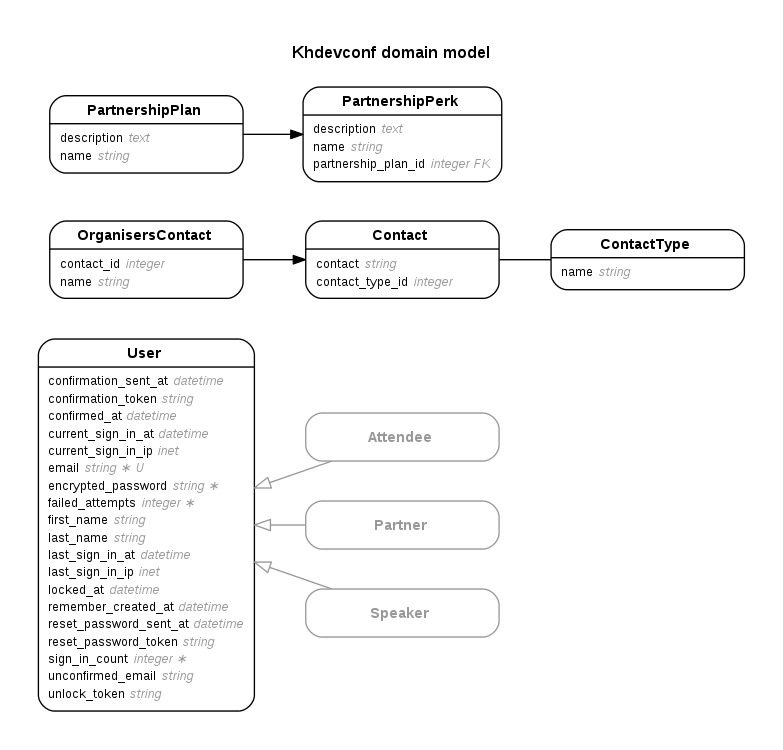
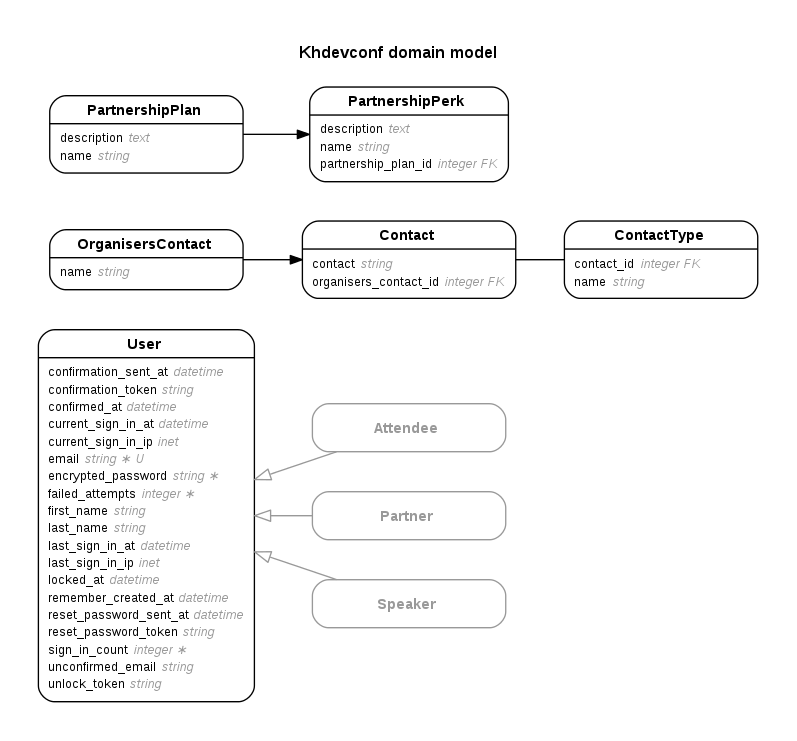
Create contacts relations and regenerate db diagrams

diff --git a/db/schema.rb b/db/schema.rb
@@ -11,7 +11,7 @@
 #
 # It's strongly recommended that you check this file into your version control system.
 
-ActiveRecord::Schema.define(version: 20151119063540) do
+ActiveRecord::Schema.define(version: 20151119064657) do
 
   # These are extensions that must be enabled in order to support this database
   enable_extension "plpgsql"
@@ -26,27 +26,27 @@ ActiveRecord::Schema.define(version: 20151119063540) do
 
   create_table "contact_types", force: :cascade do |t|
     t.string   "name"
+    t.integer  "contact_id"
     t.datetime "created_at", null: false
     t.datetime "updated_at", null: false
   end
 
+  add_index "contact_types", ["contact_id"], name: "index_contact_types_on_contact_id", using: :btree
+
   create_table "contacts", force: :cascade do |t|
     t.string   "contact"
-    t.datetime "created_at",      null: false
-    t.datetime "updated_at",      null: false
-    t.integer  "contact_type_id"
+    t.integer  "organisers_contact_id"
+    t.datetime "created_at",            null: false
+    t.datetime "updated_at",            null: false
   end
 
-  add_index "contacts", ["contact_type_id"], name: "index_contacts_on_contact_type_id", using: :btree
+  add_index "contacts", ["organisers_contact_id"], name: "index_contacts_on_organisers_contact_id", using: :btree
 
   create_table "organisers_contacts", force: :cascade do |t|
     t.string   "name"
     t.datetime "created_at", null: false
     t.datetime "updated_at", null: false
-    t.integer  "contact_id"
   end
-
-  add_index "organisers_contacts", ["contact_id"], name: "index_organisers_contacts_on_contact_id", using: :btree
 
   create_table "partners", force: :cascade do |t|
     t.string   "company_name"
@@ -107,7 +107,7 @@ ActiveRecord::Schema.define(version: 20151119063540) do
   add_index "users", ["email"], name: "index_users_on_email", unique: true, using: :btree
   add_index "users", ["reset_password_token"], name: "index_users_on_reset_password_token", unique: true, using: :btree
 
-  add_foreign_key "contacts", "contact_types"
-  add_foreign_key "organisers_contacts", "contacts"
+  add_foreign_key "contact_types", "contacts"
+  add_foreign_key "contacts", "organisers_contacts"
   add_foreign_key "partnership_perks", "partnership_plans"
 end

diff --git a/db/migrate/20151119064631_create_contacts.rb b/db/migrate/20151119064631_create_contacts.rb
@@ -2,7 +2,7 @@ class CreateContacts < ActiveRecord::Migration
   def change
     create_table :contacts do |t|
       t.string :contact
-      # t.references :contact_types, index: true, foreign_key: true
+      t.references :organisers_contact, index: true, foreign_key: true
 
       t.timestamps null: false
     end

diff --git a/db/migrate/20151119064657_create_contact_types.rb b/db/migrate/20151119064657_create_contact_types.rb
@@ -2,6 +2,7 @@ class CreateContactTypes < ActiveRecord::Migration
   def change
     create_table :contact_types do |t|
       t.string :name
+      t.references :contact, index: true, foreign_key: true
 
       t.timestamps null: false
     end

diff --git a/db/migrate/20151119064555_create_organisers_contacts.rb b/db/migrate/20151119064555_create_organisers_contacts.rb
@@ -5,7 +5,5 @@ class CreateOrganisersContacts < ActiveRecord::Migration
 
       t.timestamps null: false
     end
-
-    add_reference :organisers_contacts, :contact, index: true, foreign_key: true
   end
 end

diff --git a/db/migrate/20151119064136_drop_organisers_contacts.rb b/db/migrate/20151119064136_drop_organisers_contacts.rb
@@ -1,0 +1,7 @@
+class DropOrganisersContacts < ActiveRecord::Migration
+  def change
+    drop_table :organisers_contacts
+    drop_table :contacts
+    drop_table :contact_types
+  end
+end

diff --git a/spec/factories/contacts.rb b/spec/factories/contacts.rb
@@ -1,7 +1,7 @@
 FactoryGirl.define do
   factory :contact do
     contact "MyString"
-contact_typs nil
+organisers_contact nil
   end
 
 end

diff --git a/app/models/contact.rb b/app/models/contact.rb
@@ -1,4 +1,4 @@
 class Contact < ActiveRecord::Base
-  has_one :contact_type
   belongs_to :organisers_contact
+  has_one :contact_type
 end

diff --git a/spec/factories/organisers_contacts.rb b/spec/factories/organisers_contacts.rb
@@ -1,7 +1,6 @@
 FactoryGirl.define do
   factory :organisers_contact do
     name "MyString"
-contact nil
   end
 
 end

diff --git a/spec/factories/contact_types.rb b/spec/factories/contact_types.rb
@@ -1,6 +1,7 @@
 FactoryGirl.define do
   factory :contact_type do
     name "MyString"
+contact nil
   end
 
 end
